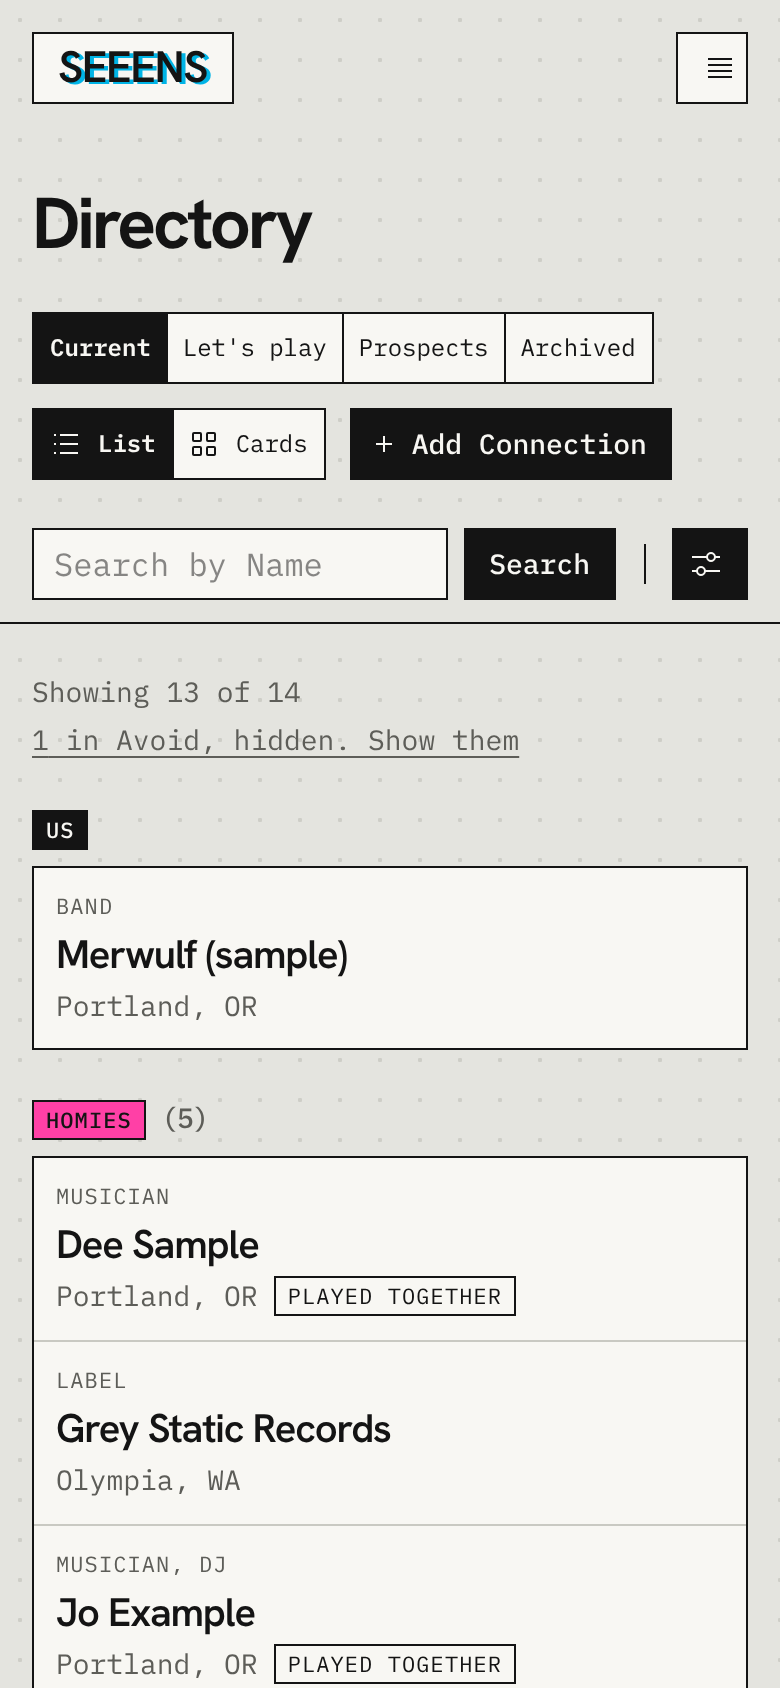
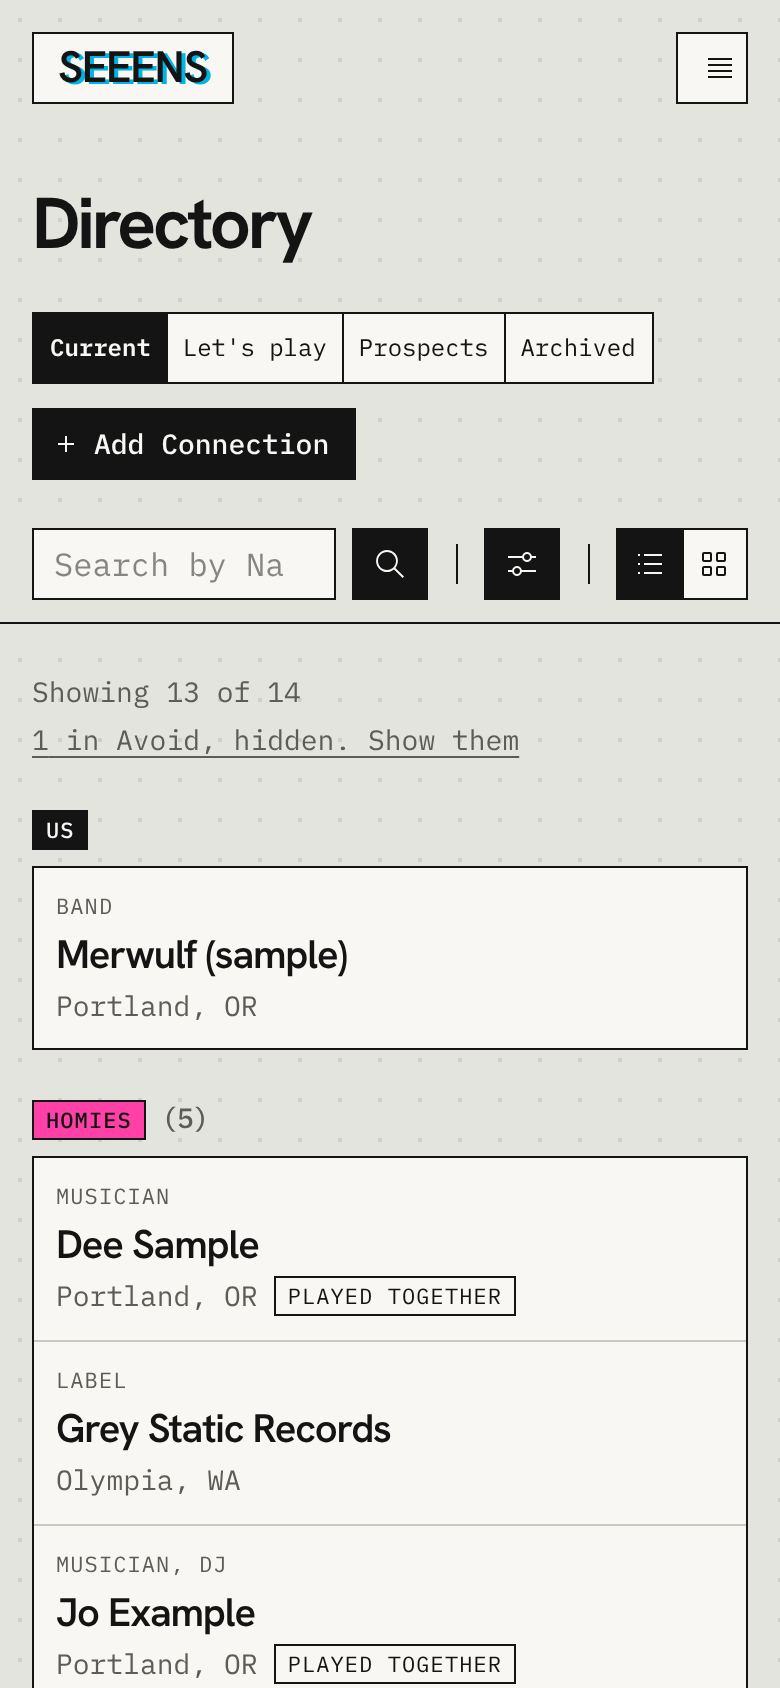
Put List/Cards after Show Filters on a full-width search row
The search row now spans the window: search, Search, rule, Show Filters,
rule, List/Cards. Filter fields follow the same width. On phones the
three controls show icons only so the field keeps some room.

Claude-Session: https://claude.ai/code/session_01SMP6NnyPkRALtU7G1T7uNS

Changed region(s): [[0.1231, 0.2156, 0.9538, 0.3697]]

diff --git a/src/app/(app)/page.tsx b/src/app/(app)/page.tsx
@@ -2,7 +2,7 @@ import { noAutofill } from "@/lib/no-autofill";
 import Link from "next/link";
 import { Combobox } from "@/components/combobox";
 import { AutoFilterForm, FilterDisclosure } from "@/components/filter-form";
-import { Add } from "@carbon/icons-react";
+import { Add, Search as SearchIcon } from "@carbon/icons-react";
 import { Suspense } from "react";
 import { cookies } from "next/headers";
 import { ConnectionCard } from "@/components/connection-card";
@@ -123,13 +123,10 @@ async function Directory({
                 </ViewLink>
               ))}
             </nav>
-            <div className="flex flex-wrap items-center gap-3">
-              {all.length ? <LayoutToggle hrefs={layoutHrefs} /> : null}
-              <Link href="/connections/new" className="button-primary">
-                <Add size={16} aria-hidden="true" />
-                Add Connection
-              </Link>
-            </div>
+            <Link href="/connections/new" className="button-primary">
+              <Add size={16} aria-hidden="true" />
+              Add Connection
+            </Link>
           </div>
 
           {all.length ? (
@@ -139,6 +136,7 @@ async function Directory({
               scenes={nestScenes(scenes)}
               towns={towns}
               open={filtersOpen}
+              layoutToggle={<LayoutToggle hrefs={layoutHrefs} />}
             />
           ) : null}
         </div>
@@ -315,6 +313,7 @@ function FilterForm({
   scenes,
   towns,
   open,
+  layoutToggle,
 }: {
   filters: DirectoryFilters;
   view: View;
@@ -324,6 +323,7 @@ function FilterForm({
   }[];
   towns: (readonly [string, string])[];
   open: boolean;
+  layoutToggle: React.ReactNode;
 }) {
   const isList = Boolean(LISTS[view as ListView]);
   const active = [!isList && f.statuses.length, f.type, f.scene, f.town].filter(Boolean).length;
@@ -331,12 +331,13 @@ function FilterForm({
     <AutoFilterForm
       role="search"
       aria-label="Search and filter the directory"
-      className="bar-search page-measure flex flex-col gap-3"
+      className="bar-search flex flex-col gap-3"
     >
       {view !== "current" ? <input type="hidden" name="view" value={view} /> : null}
       <FilterDisclosure
         initialOpen={open}
         active={active}
+        after={layoutToggle}
         search={
           <>
             <div className="flex min-w-0 flex-1 flex-col">
@@ -352,8 +353,10 @@ function FilterForm({
                 className="field"
               />
             </div>
-            <button type="submit" className="button-primary">
-              Search
+            {/* Phones show the icon only, to leave the field room. */}
+            <button type="submit" className="button-primary max-sm:px-2.5">
+              <span className="max-sm:sr-only">Search</span>
+              <SearchIcon size={16} aria-hidden="true" className="sm:hidden" />
             </button>
           </>
         }

diff --git a/src/components/filter-form.tsx b/src/components/filter-form.tsx
@@ -52,12 +52,15 @@ export function FilterDisclosure({
   initialOpen,
   active,
   search,
+  after,
   children,
 }: {
   initialOpen: boolean;
   /** How many filters are set, shown on the button while the fields are hidden. */
   active: number;
   search: React.ReactNode;
+  /** Controls after Show Filters, behind another rule (the List/Cards toggle). */
+  after?: React.ReactNode;
   children: React.ReactNode;
 }) {
   const [open, setOpen] = useState(initialOpen);
@@ -70,7 +73,7 @@ export function FilterDisclosure({
         <span className="bar-divider" aria-hidden="true" />
         <button
           type="button"
-          className="button-primary"
+          className="button-primary max-sm:px-2.5"
           aria-expanded={open}
           aria-controls={panelId}
           onClick={() => setOpen((o) => !o)}
@@ -80,6 +83,12 @@ export function FilterDisclosure({
           <span className="max-sm:sr-only">{label}</span>
           {!open && active ? <span className="tabular-nums">({active})</span> : null}
         </button>
+        {after ? (
+          <>
+            <span className="bar-divider" aria-hidden="true" />
+            {after}
+          </>
+        ) : null}
       </div>
       <div id={panelId} hidden={!open}>
         {children}

diff --git a/src/app/globals.css b/src/app/globals.css
@@ -576,18 +576,14 @@
       box-shadow: inset 0 calc(-1 * var(--stroke-hair)) 0 var(--color-border-strong);
     }
   }
-  /* Doubled class to beat .page-measure, which the form uses on wider screens. */
-  .bar-search.bar-search {
+  .bar-search {
     @media (width < 48rem) {
       position: sticky;
       top: 0;
       z-index: 10;
       margin-inline: calc(-1 * var(--gutter));
-      /* Full bleed, so the measure no longer applies. The bar's padding
-         stands in for part of the page gap above it. */
+      /* The bar's padding stands in for part of the page gap above it. */
       margin-top: -12px;
-      width: auto;
-      max-width: none;
       padding: var(--bar-pad) var(--gutter);
       background: var(--color-bg-ground);
       box-shadow: inset 0 calc(-1 * var(--stroke-hair)) 0 var(--color-border-strong);

diff --git a/src/components/layout-toggle.tsx b/src/components/layout-toggle.tsx
@@ -54,7 +54,8 @@ export function LayoutToggle({ hrefs }: { hrefs: Record<DirectoryLayout, string>
           className="inline-flex items-center gap-2"
         >
           {layout === "list" ? <List size={16} aria-hidden="true" /> : <Grid size={16} aria-hidden="true" />}
-          {layout === "list" ? "List" : "Cards"}
+          {/* Phones show the icons only; the names are still read out. */}
+          <span className="max-sm:sr-only">{layout === "list" ? "List" : "Cards"}</span>
         </Link>
       ))}
     </nav>

diff --git a/docs/design-system/rules.md b/docs/design-system/rules.md
@@ -37,7 +37,7 @@ Seeens is not a sales tool. Bands work on their own time, and urgency comes and 
 - Keep primary actions clear: add a connection, favorite it, or record outreach.
 - **Page width:** the app has no max width. Gutters are 16px, 24px from `md`, and 32px from `xl` (`.page-gutter`). The directory and Boards use the full width. Reading and form pages (connection detail, edit forms, scenes, follow-ups, export) and long text such as the search row and view intros hold a 56rem measure (`.page-measure`), left-aligned with the logo.
 - Card grids fill the row with as many 280px-minimum columns as fit (`.card-grid`).
-- **Directory bar:** every directory control sits in one bar pinned to the top of the window (`.directory-bar`): views, List/Cards, and Add Connection on the first row; search, Show Filters, and the filter fields under it. It runs edge to edge on solid ground with a hairline underneath. Phones pin only the search row and any open filters. Field labels are visually hidden and the placeholder names the field.
+- **Directory bar:** every directory control sits in one bar pinned to the top of the window (`.directory-bar`): views and Add Connection on the first row; then a full-width row of search, Show Filters, and List/Cards, split by short rules; then the filter fields. On phones, Search, Show Filters, and List/Cards show icons only. It runs edge to edge on solid ground with a hairline underneath. Phones pin only the search row and any open filters. Field labels are visually hidden and the placeholder names the field.
 - Use a consistent spacing scale.
 - Keep the first release focused on directory and detail views; prioritize useful relationship context over metrics.
 
